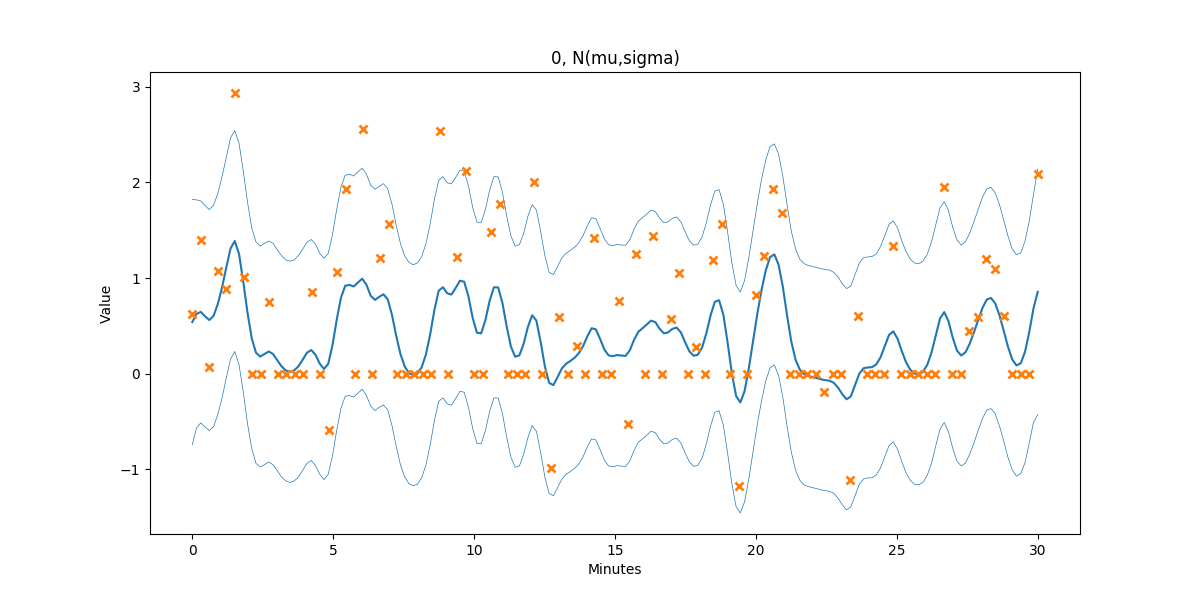
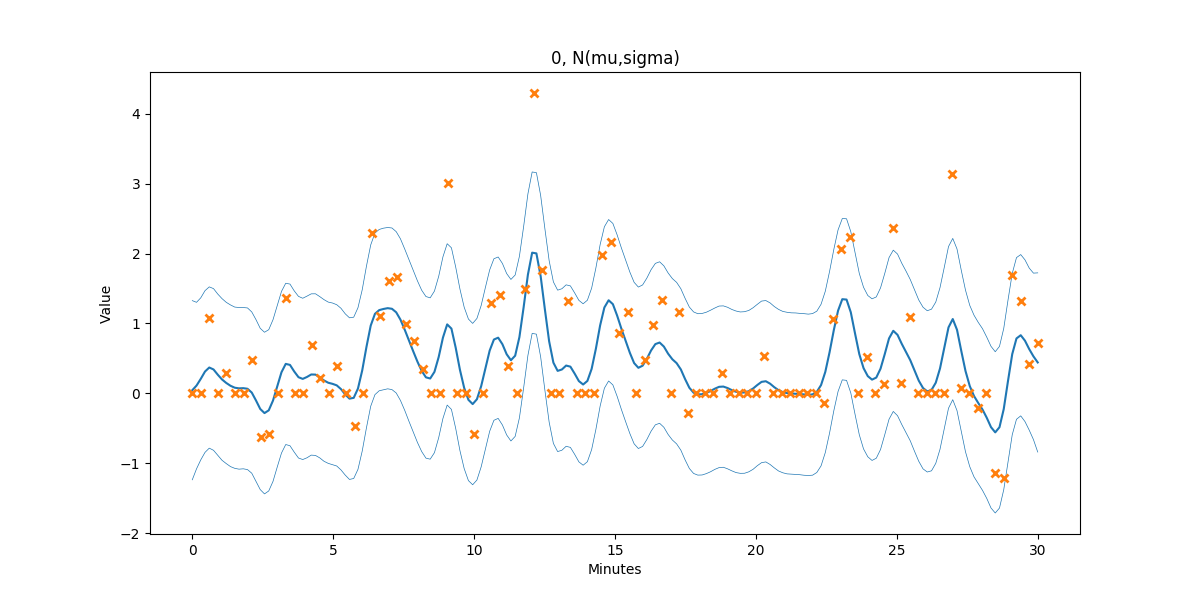
Saved new changes 2020-09-19 13:11:15

diff --git a/GPFlex.py b/GPFlex.py
@@ -1,0 +1,109 @@
+import numpy as np
+import pandas as pd
+import numpy.random as r
+import tensorflow as tf
+import gpflow
+from gpflow.ci_utils import ci_niter
+from gpflow.optimizers import NaturalGradient
+
+from gpflow.utilities import print_summary
+
+from gpflow import set_trainable
+import matplotlib.pyplot as plt
+
+def gaussian1(N=100, pi=0.5, mu1=1, sigma1=1, mu2=-1, sigma2=2):
+    X = np.linspace(0, 30, N)[:, None] * 1.0
+    y_pi = r.uniform(size=N) < pi
+    groups = np.where(y_pi, 0, 1)
+    F = r.normal(mu1,sigma1, size=N) * groups + r.normal(mu2,sigma2, size=N) * (1 - groups)
+    Y = F[:, None]*1.0  # Noisy data
+    return X, Y, groups[:, None]
+
+def gaussian2(N=100, pi=0.5, mu1=1, sigma1=1, mu2=-1, sigma2=2, epsilon=0.001):
+    X = np.linspace(0, 30, N)[:, None]*1.0
+    y_pi = r.uniform(size=N) < pi
+    groups = np.where(y_pi, 0, 1)
+    F = r.normal(0,epsilon, size=N) * groups + r.normal(mu1,sigma1, size=N) * (1 - groups)
+    Y = F[:, None]*1.0  # Noisy data
+    return X, Y, groups[:, None]
+
+def gaussian3(N=100, pi=0.5, mu1=1, sigma1=1, mu2=-1, sigma2=2, epsilon=0.001):
+    X = np.linspace(0, 30, N)[:, None]*1.0
+    y_pi = r.uniform(size=N) < pi
+    groups = np.where(y_pi, 0, 1)
+    F = r.normal(0,epsilon, size=N) * groups + r.normal(0,epsilon, size=N) * (1 - groups)
+    Y = F[:, None]*1.0  # Noisy data
+    return X, Y, groups[:, None]
+
+def zinormal(N=100, pi=0.5, mu1=1, sigma1=1, mu2=-1, sigma2=2, epsilon=0.001):
+    X = np.linspace(0, 30, N)[:, None] *1.0
+    y_pi = r.uniform(size=N) < pi
+    groups = np.where(y_pi, 0, 1)
+    F = r.normal(mu1,sigma1, size=N) * groups
+    Y = F[:, None]*1.0  # Noisy data
+    return X, Y, groups[:, None]
+
+def zipoisson(N=100, pi=0.5, lam=1):
+    X = np.linspace(0, 30, N)[:, None]
+    y_pi = r.uniform(size=N) < pi
+    groups = np.where(y_pi, 0, 1)
+    F = r.poisson(lam, size=N) * groups
+    Y = F[:, None]*1.0  # Noisy data
+    return X, Y, groups[:, None]
+
+
+def analyze(f, title="Plot", rawplot=True, modelplot=True,summary=True):
+    # Obtain randomly generated data
+    X, Y, groups = f()
+    Y_data = np.hstack([Y, groups])
+    # Model construction (notice that num_latent_gps is 1)
+    likelihood = gpflow.likelihoods.SwitchedLikelihood(
+        [gpflow.likelihoods.Gaussian(variance=1.0),
+         gpflow.likelihoods.Gaussian(variance=1.0)]
+    )
+    natgrad = NaturalGradient(gamma=1.0)
+    adam = tf.optimizers.Adam()
+    kernel = gpflow.kernels.Matern52(lengthscales=0.5)
+    model = gpflow.models.VGP((X, Y_data), kernel=kernel, likelihood=likelihood, num_latent_gps=1)
+    for _ in range(ci_niter(1000)):
+        natgrad.minimize(model.training_loss, [(model.q_mu, model.q_sqrt)])
+
+    # Plot of the raw data.
+    if rawplot:
+        fig, ax = plt.subplots(1, 1, figsize=(12, 6))
+        _ = ax.plot(X, Y_data, "kx")
+        plt.xlabel("Minutes")
+        plt.ylabel("Value")
+        plt.title(title)
+        plt.savefig(title+'.png')
+
+    # Plot of GP model
+    if modelplot:
+        xx = np.linspace(0, 30, 200)[:, None]
+        mu, var = model.predict_f(xx)
+
+        plt.figure(figsize=(12, 6))
+        plt.plot(xx, mu, "C0")
+        plt.plot(xx, mu + 2 * np.sqrt(var), "C0", lw=0.5)
+        plt.plot(xx, mu - 2 * np.sqrt(var), "C0", lw=0.5)
+        plt.plot(X, Y, "C1x", mew=2)
+        plt.xlabel("Minutes")
+        plt.ylabel("Value")
+        plt.title(title)
+        plt.savefig(title+' GP model.png')
+
+    if summary:
+        print_summary(model)
+
+    return model
+
+
+# Obtain the corresponding GP Models
+m1 = analyze(gaussian1, 'N(mu1,sigma1), N(mu2,sigma2)')
+m2 = analyze(gaussian2, 'N(0,epsilon), N(mu, sigma)')
+m3 = analyze(gaussian3, '2x N(0, epsilon)')
+m4 = analyze(zinormal, '0, N(mu,sigma)')
+m5 = analyze(zipoisson, '0, Pois(lam)')
+
+
+
